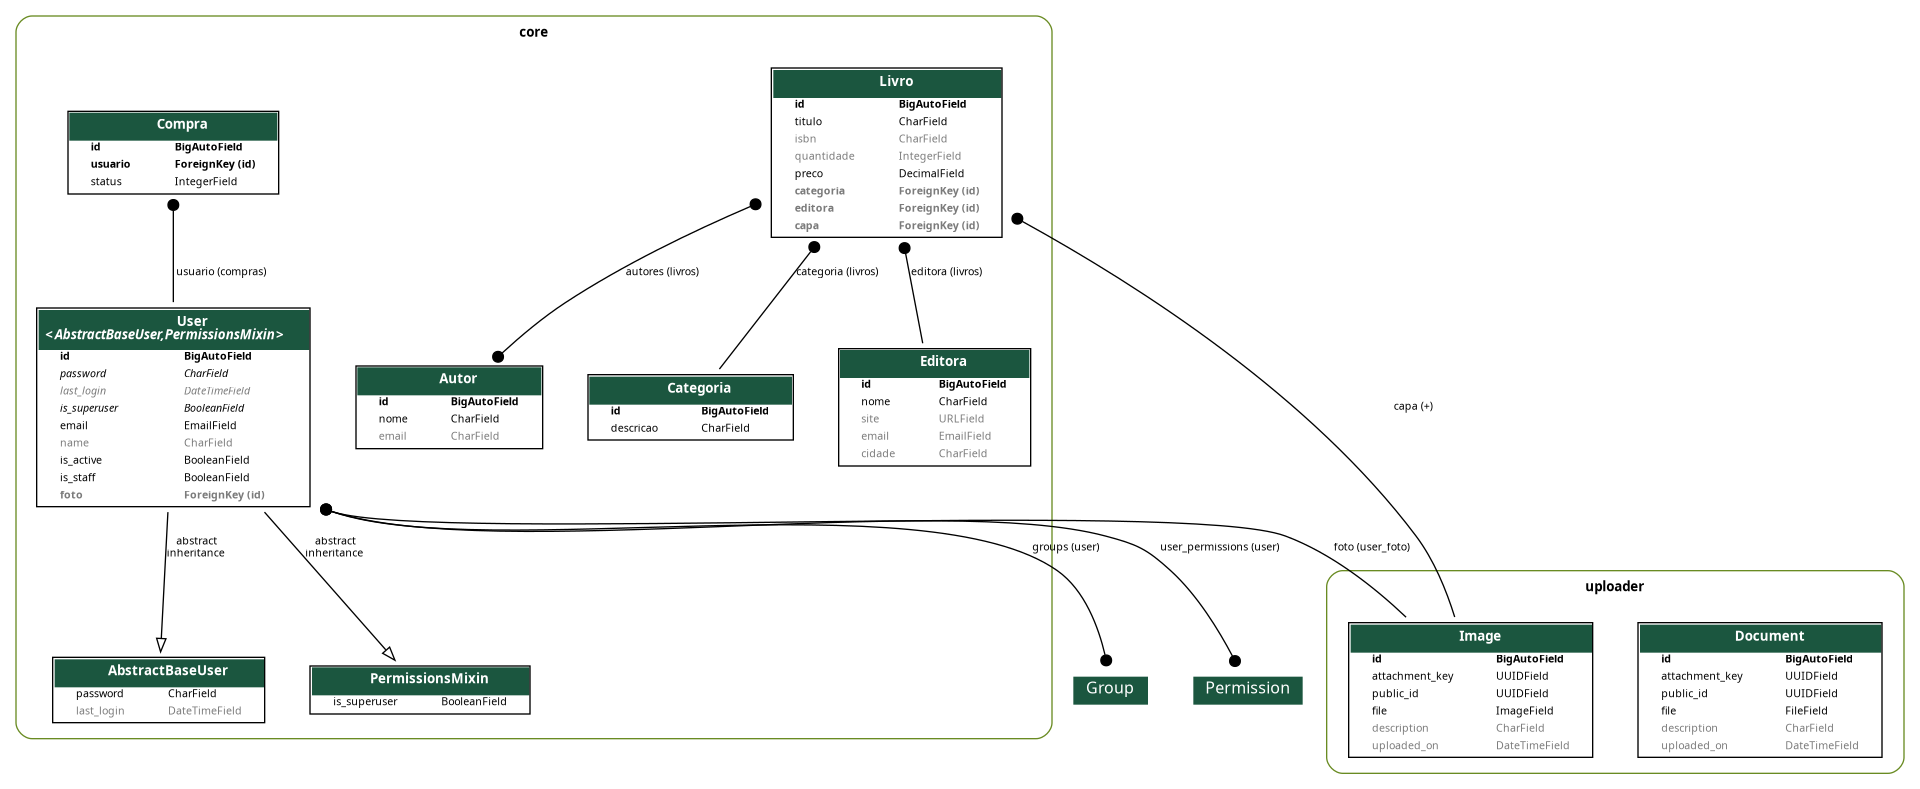
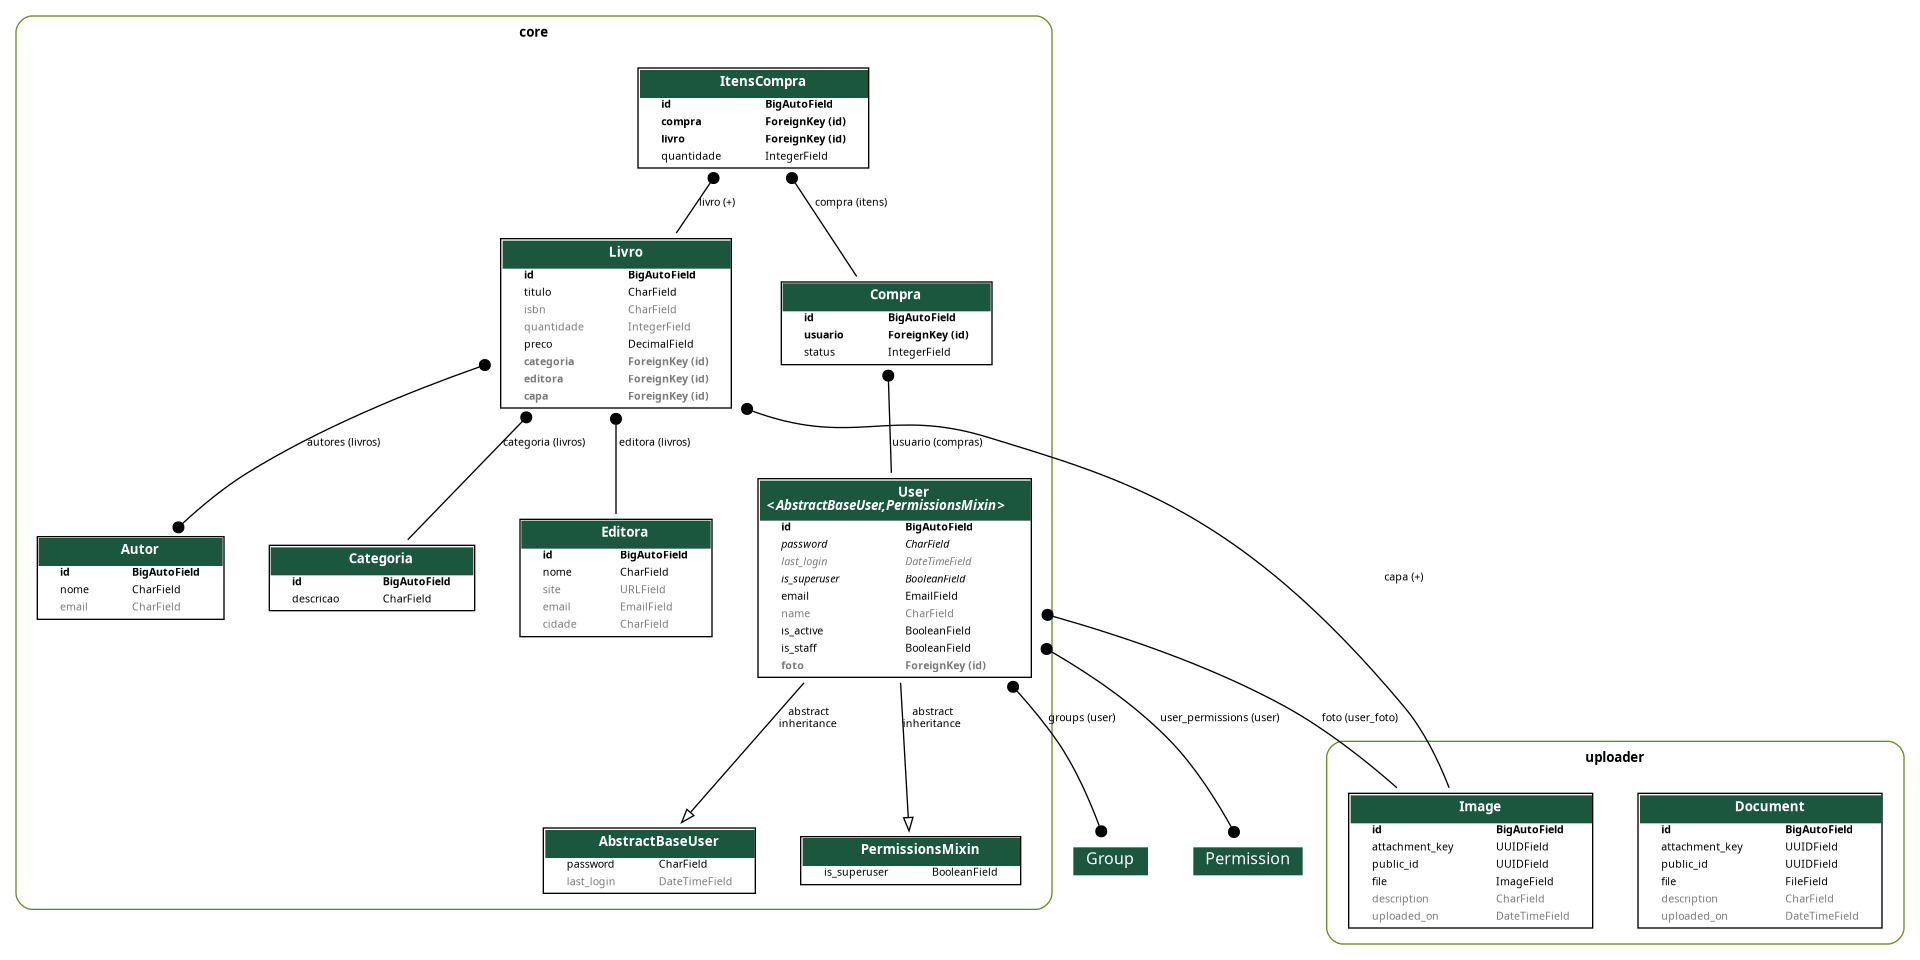
feat: criação dos itens da compra

diff --git a/core/migrations/0013_itenscompra.py b/core/migrations/0013_itenscompra.py
@@ -1,0 +1,23 @@
+# Generated by Django 5.2.13 on 2026-08-14 12:03
+
+import django.db.models.deletion
+from django.db import migrations, models
+
+
+class Migration(migrations.Migration):
+
+    dependencies = [
+        ('core', '0012_compra'),
+    ]
+
+    operations = [
+        migrations.CreateModel(
+            name='ItensCompra',
+            fields=[
+                ('id', models.BigAutoField(auto_created=True, primary_key=True, serialize=False, verbose_name='ID')),
+                ('quantidade', models.IntegerField(default=1)),
+                ('compra', models.ForeignKey(on_delete=django.db.models.deletion.CASCADE, related_name='itens', to='core.compra')),
+                ('livro', models.ForeignKey(on_delete=django.db.models.deletion.PROTECT, related_name='+', to='core.livro')),
+            ],
+        ),
+    ]

diff --git a/core/models/compra.py b/core/models/compra.py
@@ -1,5 +1,6 @@
 from django.db import models
 
+from .livro import Livro
 from .user import User
 
 class Compra(models.Model):
@@ -11,3 +12,8 @@ class Compra(models.Model):
 
     usuario = models.ForeignKey(User, on_delete=models.PROTECT, related_name='compras')
     status = models.IntegerField(choices=StatusCompra.choices,  default=StatusCompra.CARRINHO)
+
+class ItensCompra(models.Model):
+    compra = models.ForeignKey(Compra, on_delete=models.CASCADE, related_name='itens')
+    livro = models.ForeignKey(Livro, on_delete=models.PROTECT, related_name='+')
+    quantidade = models.IntegerField(default=1)

diff --git a/core/models/__init__.py b/core/models/__init__.py
@@ -3,4 +3,4 @@ from .autor import Autor
 from .categoria import Categoria
 from .editora import Editora
 from .livro import Livro
-from .compra import Compra
+from .compra import Compra, ItensCompra
